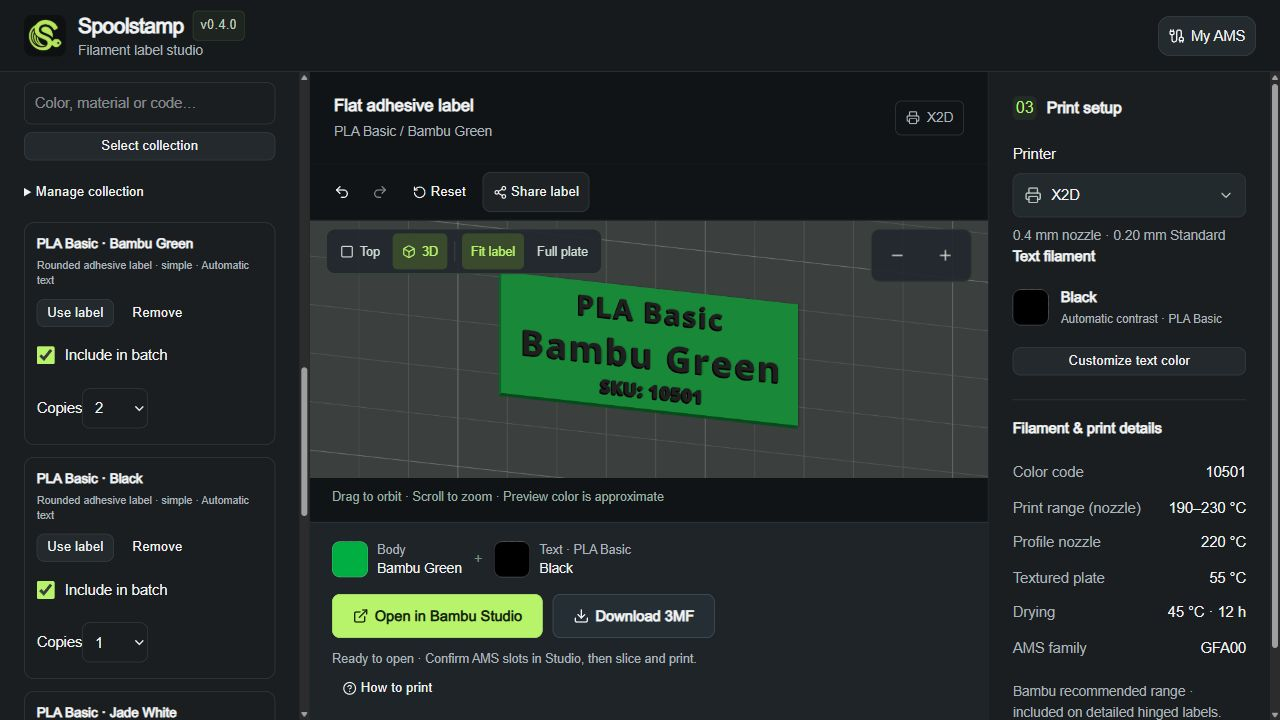
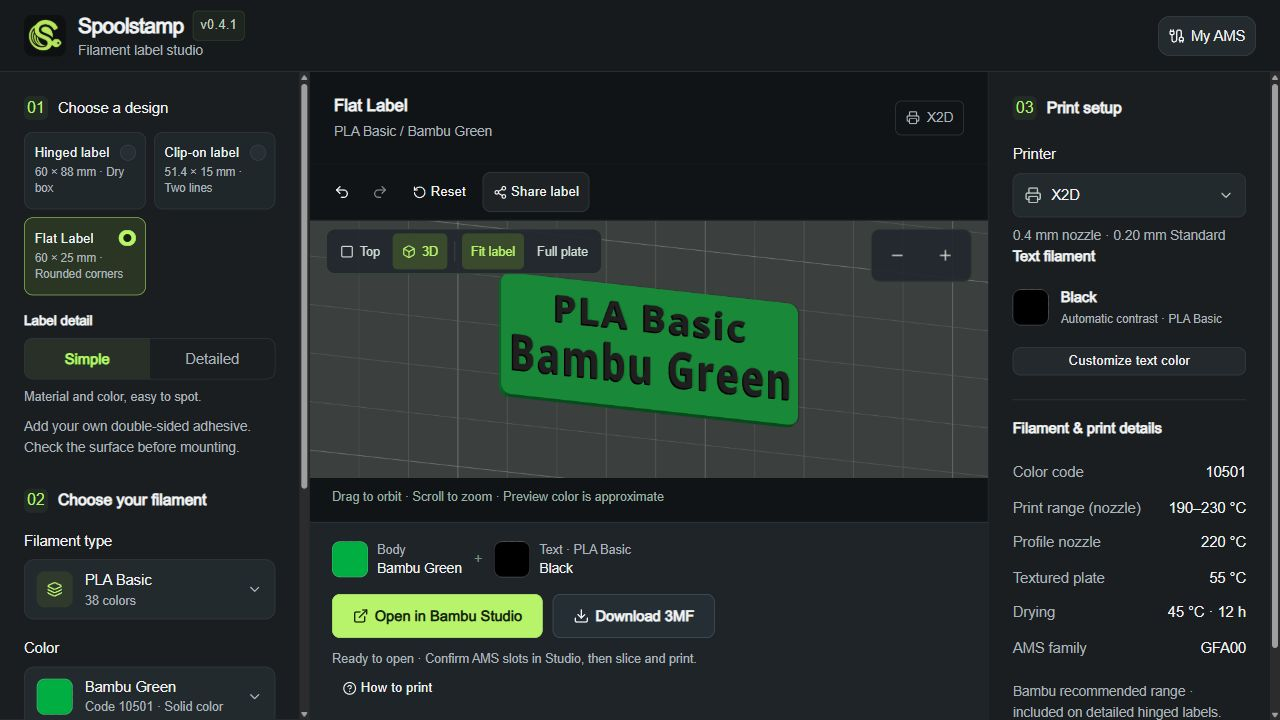
Consolidate Flat Label into the rounded design (#12)

diff --git a/lib/saved-workspace.ts b/lib/saved-workspace.ts
@@ -1,4 +1,4 @@
-import { FILAMENTS, type DesignId } from './catalog';
+import { FILAMENTS, normalizeDesignId, type DesignId } from './catalog';
 import { effectiveLabelLayout } from './label-layout';
 import {
   INITIAL_CONFIGURATION,
@@ -58,7 +58,7 @@ export function saveLabel(value: BuilderConfiguration): SavedLabel {
   return {
     filamentId: value.filament.id,
     printerId: value.printerId,
-    design: value.design,
+    design: normalizeDesignId(value.design) as DesignId,
     ...(value.textColor ? { textColor: value.textColor } : {}),
     ...(value.labelLayout ? { labelLayout: value.labelLayout } : {}),
     ...(value.textFilamentProduct
@@ -105,7 +105,7 @@ export function draftKey(row: SavedLabel) {
   return JSON.stringify({
     filamentId: row.filamentId,
     printerId: row.printerId,
-    design: row.design,
+    design: normalizeDesignId(row.design),
     textColor: row.textColor,
     textFilamentProduct: row.textFilamentProduct,
     labelLayout: effectiveLabelLayout(row.design, row.labelLayout),
@@ -124,7 +124,7 @@ export function restoreLabelForBatch(
   return restored
     ? {
         ...restored,
-        design,
+        design: normalizeDesignId(design) as DesignId,
         labelLayout: effectiveLabelLayout(design, row.labelLayout),
       }
     : null;

diff --git a/lib/catalog.ts b/lib/catalog.ts
@@ -137,19 +137,17 @@ export const DESIGNS = [
     note: '51.4 × 15 mm · two-line clip-on',
   },
   {
-    id: 'adhesive-label',
-    displayName: 'Flat label',
-    summary: '60 × 25 mm · Adhesive-backed',
-    name: 'Flat adhesive label',
-    note: 'Original flat label · add your own double-sided adhesive',
-  },
-  {
     id: 'rounded-adhesive-label',
-    displayName: 'Rounded flat label',
+    displayName: 'Flat Label',
     summary: '60 × 25 mm · Rounded corners',
-    name: 'Rounded adhesive label',
+    name: 'Flat Label',
     note: 'Original 2 mm corner radius · add your own adhesive',
   },
 ] as const;
 
-export type DesignId = (typeof DESIGNS)[number]['id'];
+/** The old square design ID remains readable for legacy saved/export data only. */
+export type DesignId = (typeof DESIGNS)[number]['id'] | 'adhesive-label';
+
+export function normalizeDesignId(value: string): string {
+  return value === 'adhesive-label' ? 'rounded-adhesive-label' : value;
+}

diff --git a/tests/label-editing.test.ts b/tests/label-editing.test.ts
@@ -40,6 +40,21 @@ describe('label editing history', () => {
   });
 });
 describe('catalog-only label links', () => {
+  it('migrates old square-flat links to the retained Flat label', () => {
+    const hash =
+      '#label=' +
+      encodeURIComponent(
+        JSON.stringify({
+          version: 1,
+          label: {
+            filamentId: INITIAL_CONFIGURATION.filament.id,
+            printerId: INITIAL_CONFIGURATION.printerId,
+            design: 'adhesive-label',
+          },
+        }),
+      );
+    expect(configurationFromLink(hash)?.design).toBe('rounded-adhesive-label');
+  });
   it('restores the rounded design and printed layout and rejects an invalid layout', () => {
     const configuration = {
       ...INITIAL_CONFIGURATION,

diff --git a/tests/builder-configuration.test.ts b/tests/builder-configuration.test.ts
@@ -8,6 +8,18 @@ import {
 } from '../lib/builder-configuration';
 
 describe('builder configuration', () => {
+  it('normalizes the removed square design while preserving layout and color', () => {
+    expect(
+      resolveConfiguration(
+        { design: 'adhesive-label', labelLayout: 'simple', textColor: 'red' },
+        INITIAL_CONFIGURATION,
+      ),
+    ).toMatchObject({
+      design: 'rounded-adhesive-label',
+      labelLayout: 'simple',
+      textColor: 'red',
+    });
+  });
   it('preserves the printed layout through configuration changes and distinguishes edits', () => {
     const simple = resolveConfiguration(
       { design: 'rounded-adhesive-label', labelLayout: 'simple' },

diff --git a/lib/builder-configuration.ts b/lib/builder-configuration.ts
@@ -2,6 +2,7 @@ import {
   DEFAULT_FILAMENT,
   DEFAULT_PRINTER,
   DESIGNS,
+  normalizeDesignId,
   FILAMENTS,
   FILAMENTS_BY_PRODUCT,
   PRINTERS,
@@ -88,7 +89,9 @@ export function resolveConfiguration(
     filament = match;
   }
   const printerId = (value.printerId ?? current.printerId) as string;
-  const design = (value.design ?? current.design) as DesignId;
+  const design = normalizeDesignId(
+    (value.design ?? current.design) as string,
+  ) as DesignId;
   if (!PRINTERS.some((item) => item.id === printerId))
     throw new Error('Unknown printer.');
   if (!DESIGNS.some((item) => item.id === design))

diff --git a/tests/catalog.test.ts b/tests/catalog.test.ts
@@ -11,11 +11,10 @@ import {
 import { buildConfiguredMeshes } from '../lib/generate-3mf';
 
 describe('generated Bambu catalog', () => {
-  it('preserves both supplied designs and offers original flat-label variants', () => {
+  it('offers two supplied designs and a single rounded Flat label', () => {
     expect(DESIGNS.map((design) => design.id)).toEqual([
       'drybox-tab',
       'clip-label',
-      'adhesive-label',
       'rounded-adhesive-label',
     ]);
   });

diff --git a/lib/release-notes.ts b/lib/release-notes.ts
@@ -1,6 +1,13 @@
 /** Short user-facing highlights; full engineering details remain in CHANGELOG.md. */
 export const RELEASE_NOTES = [
   {
+    version: '0.4.1',
+    changes: [
+      'One Flat label option, with rounded corners.',
+      'Older flat-label drafts and links open the retained design.',
+    ],
+  },
+  {
     version: '0.4.0',
     changes: [
       'Preview batch plates and choose copies before downloading.',

diff --git a/tests/saved-collections.test.ts b/tests/saved-collections.test.ts
@@ -113,7 +113,7 @@ describe('local named label collections', () => {
         ?.labelLayout,
     ).toBe('simple');
     const oldSaved = restoreLabelForBatch(draft, 'adhesive-label')!;
-    expect(oldSaved.design).toBe('adhesive-label');
+    expect(oldSaved.design).toBe('rounded-adhesive-label');
     expect(
       { ...INITIAL_CONFIGURATION, labelLayout: 'simple', ...oldSaved }
         .labelLayout,

diff --git a/docs/adhesive-label.md b/docs/adhesive-label.md
@@ -1,17 +1,17 @@
-# Flat adhesive label
+# Flat Label
 
 ![Flat label selected in the Spoolstamp workspace](images/flat-label.png)
 
 ## Create and print
 
-1. Select **Flat label** under **Choose a design**, then choose the filament and color.
+1. Select **Flat Label** under **Choose a design**, then choose the filament and color.
 2. Pick your printer. Keep automatic text contrast, or open **Customize text color** to match the actual text spool.
 3. Download the 3MF and open it as a project in Bambu Studio. Confirm body/text assignments and inspect the sliced lettering before printing backing-down.
 4. Test the finished label and your chosen adhesive on the intended surface before mounting.
 
 ## Dimensions and validation
 
-An original 60 × 25 mm rectangular label with a 1.6 mm flat backing and 0.8 mm raised lettering. Unlike the supplied hinged card and clip, it has no moving parts, clip clearance, holes or model-specific mounting mechanism. Supply suitable double-sided tape or adhesive yourself; none is modeled or included.
+An original 60 × 25 mm label with rounded corners, a 1.6 mm flat backing and 0.8 mm raised lettering. Unlike the supplied hinged card and clip, it has no moving parts, clip clearance, holes or model-specific mounting mechanism. Supply suitable double-sided tape or adhesive yourself; none is modeled or included.
 
 The product and color are the main two lines. A small catalog color code is included when the color fits one line. Long colors wrap over two lines instead of reducing strokes below the existing 0.4 mm-nozzle screening limits; full names remain in text metadata. Body and raised text use separate material roles, retaining the existing same-family text-color/profile controls.
 
@@ -19,11 +19,9 @@ Print backing-down at Z=0. No scaling or rotation of a supplied community model 
 
 Implementation: `lib/adhesive-label.ts`. Physical qualification is explicitly pending.
 
-## Rounded flat label and layout presets
+## Rounded corners and layout presets
 
-![Rounded flat label with Simple lettering](images/rounded-flat-label.png)
-
-**Rounded flat label** is another original adhesive-backed design. It retains the 60 × 25 × 1.6 mm backing, 0.8 mm text relief and the same text-safe area. A 2 mm radius rounds only the outer corners inside the existing border; the supplied hinged card and clip mechanics are not changed. The curve is modeled with eight segments per quarter-circle. Corner radius and backing dimensions are included in the exported project's provenance.
+**Flat Label** is the retained rounded adhesive-backed design. A 2 mm radius rounds the outer corners inside the existing border; the supplied hinged card and clip mechanics are not changed. The curve is modeled with eight segments per quarter-circle. Corner radius and backing dimensions are included in the exported project's provenance. The former square-corner picker option has been removed. Old square-design setups, drafts, collections and links restore this design; its internal rounded-design ID remains stable.
 
 Choose **Simple** for prominent full product/color names, or **Detailed** for the existing catalog-code layout. Simple long color names still wrap rather than being abbreviated; Detailed retains the SKU when a single color line leaves enough room. Existing drafts without a layout use Detailed, so their previous flat-label content stays intact. The narrow supplied clip remains fixed at two-line Simple; no additional fine print is squeezed onto it.
 

diff --git a/docs/images/README.md b/docs/images/README.md
@@ -1,13 +1,13 @@
 # Documentation screenshots
 
-Current interface captures were refreshed locally on November 6, 2026 for the **v0.4.0 candidate**, before publication. Desktop captures use the browser's 1280 × 720 default viewport. The mobile guide uses 320 × 740; responsive checks also covered 390 px width.
+The workspace and Flat Label captures were refreshed locally on November 6, 2026 for **v0.4.1**, before publication. Other interface captures show v0.4.0 flows. Desktop captures use the browser's 1280 × 720 default viewport. The mobile guide uses 320 × 740; responsive checks also covered 390 px width.
 
 | File                     | View                                                                                   |
 | ------------------------ | -------------------------------------------------------------------------------------- |
-| `workspace.png`          | Hinged label, compact four-design chooser and layout control                           |
+| `workspace.png`          | Hinged label, three-design chooser and layout control                                  |
 | `clip-label.png`         | Clip-on label in the same workspace                                                    |
-| `flat-label.png`         | Original flat adhesive label                                                           |
-| `rounded-flat-label.png` | Rounded flat label with Simple lettering                                               |
+| `flat-label.png`         | Flat Label with rounded corners and Simple lettering                                   |
+| `rounded-flat-label.png` | Historical v0.4.0 capture before the design was renamed Flat Label                     |
 | `collections.png`        | Named collection, search, selection and copies                                         |
 | `batch-preview.png`      | Four saved label instances arranged on one plate                                       |
 | `print-guide.png`        | Three-step Studio printing guide                                                       |

diff --git a/README.md b/README.md
@@ -10,7 +10,7 @@ Create 3D-printable filament labels in a few clicks. Pick a design, choose your 
 
 ## Features
 
-- **Four label designs** — a hinged dry-box label, a flat-front clip-on label, and original flat adhesive labels with square or rounded corners.
+- **Three label designs** — a hinged dry-box label, a flat-front clip-on label, and an original Flat Label with rounded corners.
 - **Bambu Lab filament catalog** — 314 colors with searchable material types, color names, and codes.
 - **Live 3D preview** — rotate, zoom, and switch between a label close-up and your printer's build plate.
 - **Automatic lettering** — filament details filled in for you, with contrasting black or white text.
@@ -42,11 +42,9 @@ A flat face with two lines: material type and color.
 
 Choose **Flat label** for an original 60 × 25 mm backing with raised product, color and catalog-code lettering. Add your own suitable adhesive after printing. See [design details and print guidance](docs/adhesive-label.md); physical printing and mounting still need testing.
 
-**Rounded flat label** uses the same face size with softened corners. Under **Label detail**, choose **Simple** for prominent material/color text, or **Detailed** for the catalog code when it fits. Hinged labels offer the same choice; their detailed layout includes print information.
+**Flat Label** has softened corners. Under **Label detail**, choose **Simple** for prominent material/color text, or **Detailed** for the catalog code when it fits. Hinged labels offer the same choice; their detailed layout includes print information. Older flat-design drafts, collections and links open this retained design.
 
-![Flat adhesive label and editing toolbar in Spoolstamp v0.4.0](docs/images/flat-label.png)
-
-![Rounded flat label with Simple lettering](docs/images/rounded-flat-label.png)
+![Flat Label with rounded corners and Simple lettering](docs/images/flat-label.png)
 
 ## Edit, share and keep your labels
 

diff --git a/docs/hosting.md b/docs/hosting.md
@@ -6,7 +6,7 @@ Connect the repository and deploy `main`. The included `amplify.yml` installs No
 
 For an existing Amplify app, redeploy the latest commit so it picks up the repository's build settings. The deployment log should end with `Static site ready: dist/client/index.html`.
 
-The static site includes the filament catalog, four label designs, 3D and batch previews, and 3MF downloads. My AMS uses the optional [separate cloud backend](hosted-cloud-ams.md), open to all global-region Bambu accounts. The live Amplify main branch already has `VITE_AMS_API_ORIGIN=https://ams.spoolstamp.bourhan.org` configured, and the owner demonstrated X2D browser sign-in and a fresh snapshot. No account approval is needed; the manual picker also works without sign-in. One-click Bambu Studio opening still uses the local app (`npm run dev`).
+The static site includes the filament catalog, three label designs, 3D and batch previews, and 3MF downloads. My AMS uses the optional [separate cloud backend](hosted-cloud-ams.md), open to all global-region Bambu accounts. The live Amplify main branch already has `VITE_AMS_API_ORIGIN=https://ams.spoolstamp.bourhan.org` configured, and the owner demonstrated X2D browser sign-in and a fresh snapshot. No account approval is needed; the manual picker also works without sign-in. One-click Bambu Studio opening still uses the local app (`npm run dev`).
 
 ## Other static hosts
 
